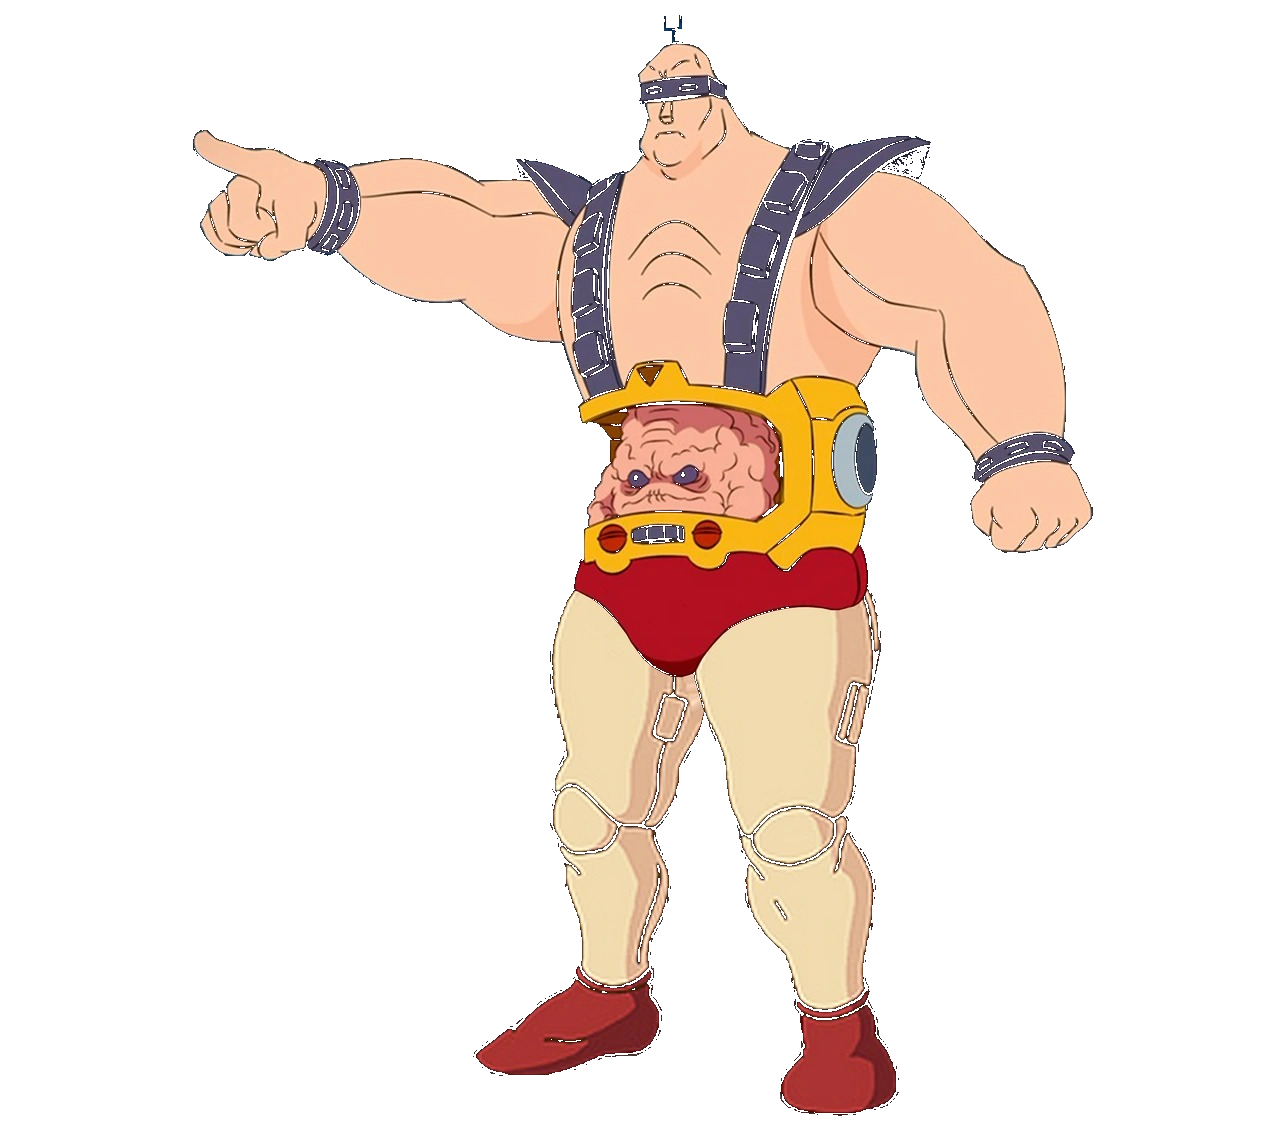
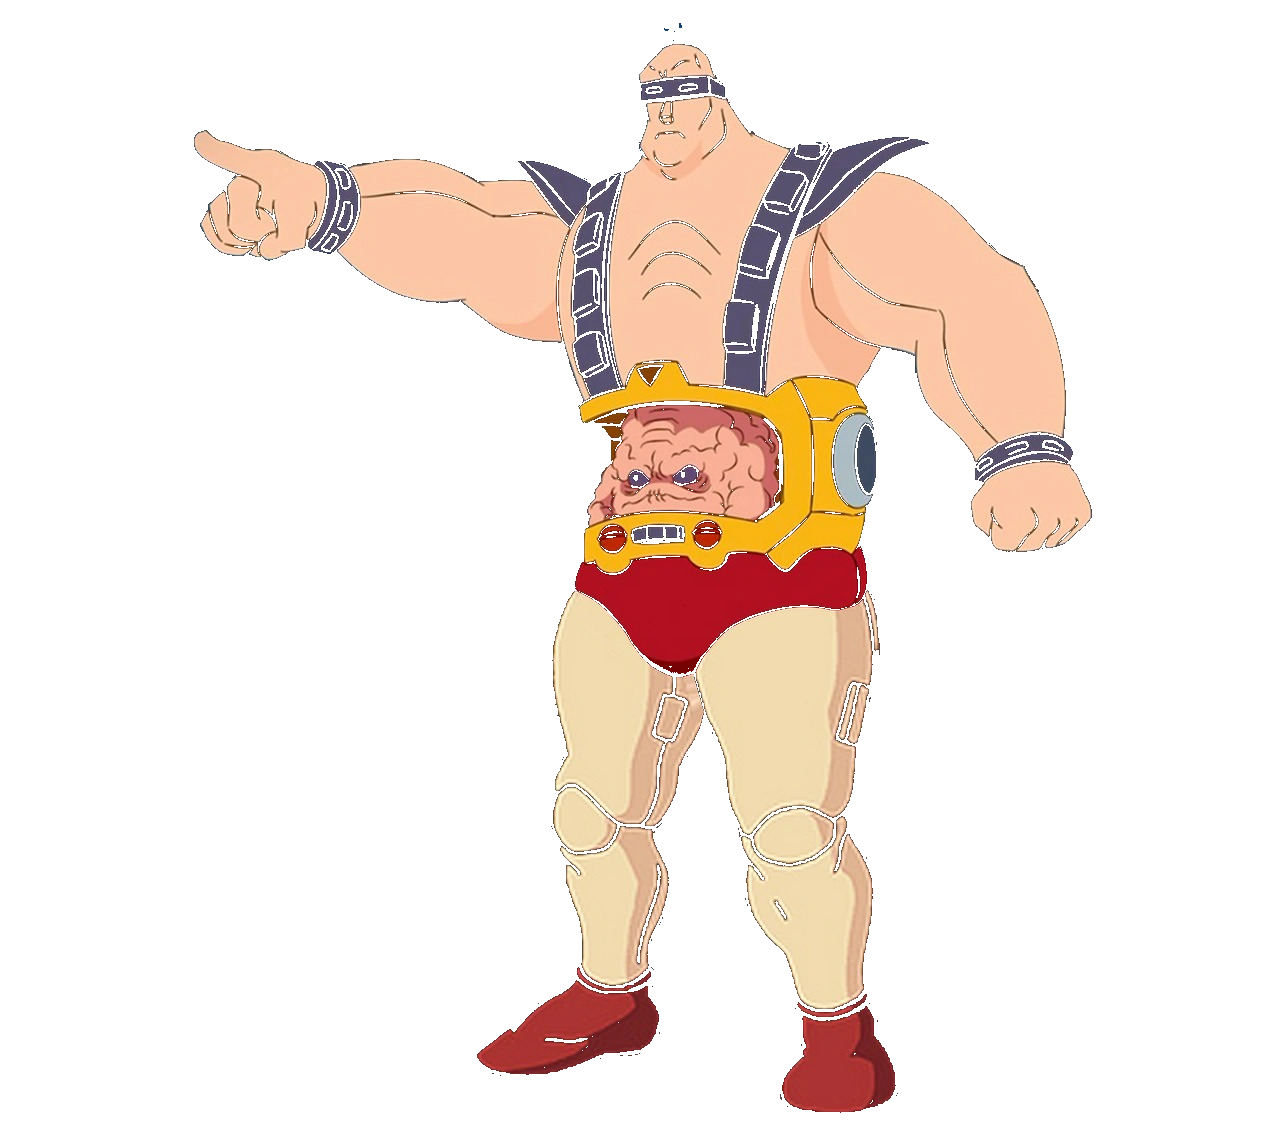
feat: merge README content into gallery page
- Add krang mascot with transparent background
- Add prompt section with model info
- Add takeaways section (harness, browser-use, memory)
- Add agent comparison grid with descriptions

diff --git a/index.html b/index.html
@@ -30,7 +30,13 @@
   /* Hero */
   .hero {
     text-align: center;
-    padding: 60px 24px 20px;
+    padding: 50px 24px 10px;
+  }
+  .hero-mascot {
+    width: 160px;
+    height: auto;
+    margin-bottom: 12px;
+    filter: drop-shadow(0 4px 20px rgba(0,0,0,0.4));
   }
   .hero h1 {
     font-size: clamp(28px, 5vw, 44px);
@@ -40,7 +46,7 @@
     margin-bottom: 8px;
   }
   .hero h1 span { color: var(--accent); }
-  .hero p {
+  .hero .subtitle {
     font-size: 15px;
     color: var(--ink-dim);
     letter-spacing: 0.04em;
@@ -60,13 +66,79 @@
     letter-spacing: 0.06em;
   }
 
+  /* Sections */
+  .section {
+    max-width: 800px;
+    margin: 0 auto;
+    padding: 0 24px;
+  }
+  .section-title {
+    font-size: 13px;
+    font-weight: 600;
+    letter-spacing: 0.18em;
+    text-transform: uppercase;
+    color: var(--accent);
+    text-align: center;
+    margin: 40px 0 16px;
+  }
+
+  /* Prompt card */
+  .prompt-card {
+    background: var(--glass);
+    border: 1px solid var(--line);
+    border-radius: 14px;
+    padding: 20px 24px;
+    text-align: center;
+  }
+  .prompt-card blockquote {
+    font-size: 14px;
+    font-style: italic;
+    color: var(--ink);
+    line-height: 1.7;
+    max-width: 600px;
+    margin: 0 auto;
+  }
+  .prompt-card .model {
+    margin-top: 12px;
+    font-size: 12px;
+    color: var(--ink-dim);
+    letter-spacing: 0.04em;
+  }
+  .prompt-card .model b { color: var(--accent); font-weight: 600; }
+
+  /* Takeaways */
+  .takeaways {
+    display: grid;
+    grid-template-columns: repeat(auto-fit, minmax(220px, 1fr));
+    gap: 16px;
+    margin-top: 16px;
+  }
+  .takeaway {
+    background: var(--glass);
+    border: 1px solid var(--line);
+    border-radius: 12px;
+    padding: 18px 20px;
+  }
+  .takeaway h4 {
+    font-size: 13px;
+    font-weight: 600;
+    color: var(--ink);
+    margin-bottom: 6px;
+    line-height: 1.4;
+  }
+  .takeaway p {
+    font-size: 12px;
+    color: var(--ink-dim);
+    line-height: 1.55;
+  }
+
   /* Grid */
   .grid {
     display: grid;
     grid-template-columns: repeat(auto-fill, minmax(300px, 1fr));
     gap: 20px;
     max-width: 1100px;
-    margin: 40px auto 60px;
+    margin: 30px auto 50px;
     padding: 0 24px;
   }
 
@@ -164,16 +236,49 @@
 
   @media (max-width: 640px) {
     .grid { grid-template-columns: 1fr; }
-    .hero { padding: 40px 20px 10px; }
+    .hero { padding: 30px 20px 10px; }
+    .hero-mascot { width: 120px; }
+    .takeaways { grid-template-columns: 1fr; }
   }
 </style>
 </head>
 <body>
 
 <div class="hero">
-  <h1>⚓ Ship <span>Harness</span> Bench</h1>
-  <p>A comparative benchmark of AI coding agents. Each agent received the same prompt and produced a browser-based 3D ship simulator.</p>
-  <div class="tag">9 agents · same prompt · different results</div>
+  <img class="hero-mascot" src="./assets/krang.png" alt="Krang mascot" />
+  <h1>Ship <span>Harness</span> Bench</h1>
+  <p class="subtitle">A benchmark to evaluate the quality of different LLM coding harnesses. Same model, same prompt, different tools.</p>
+  <div class="tag">9 agents &middot; same prompt &middot; different results</div>
+</div>
+
+<div class="section">
+  <div class="section-title">The Prompt</div>
+  <div class="prompt-card">
+    <blockquote>"Create a beautiful, relaxing, 3D ship simulator for the browser with the sun in the horizon alternating day and night and when you click on the sea the water makes a wave"</blockquote>
+    <div class="model">Model: <b>Deepseek V4 Flash 0731</b></div>
+  </div>
+</div>
+
+<div class="section">
+  <div class="section-title">Takeaways</div>
+  <div class="takeaways">
+    <div class="takeaway">
+      <h4>Harness matters</h4>
+      <p>The model is important, but the harness is a worthy optimization. Same model, vastly different results depending on the tooling.</p>
+    </div>
+    <div class="takeaway">
+      <h4>Browser-use is key</h4>
+      <p>A good browser-use tool is one of the most useful skills. Seeing, interacting with, and verifying output in a real browser is a game changer.</p>
+    </div>
+    <div class="takeaway">
+      <h4>Memory helps</h4>
+      <p>Memory and other tools could also be useful. Context retention and auxiliary capabilities shape output quality as much as the model itself.</p>
+    </div>
+  </div>
+</div>
+
+<div class="section">
+  <div class="section-title">The Agents</div>
 </div>
 
 <div class="grid">
@@ -185,7 +290,7 @@
     </div>
     <div class="card-body">
       <h3>Ship Sim</h3>
-      <p>A quiet day on the water. Import maps, modular Three.js, day/night cycle with wave controls.</p>
+      <p>Import maps, modular Three.js, day/night cycle with wave controls.</p>
     </div>
     <div class="card-footer">
       <span>Launch simulator</span>
@@ -200,7 +305,7 @@
     </div>
     <div class="card-body">
       <h3>Open Sea</h3>
-      <p>Self-contained single HTML with inline Three.js bundle. Keyboard sailing controls and ambient ocean.</p>
+      <p>Self-contained single HTML with inline Three.js bundle. Keyboard sailing controls.</p>
     </div>
     <div class="card-footer">
       <span>Launch simulator</span>
@@ -215,7 +320,7 @@
     </div>
     <div class="card-body">
       <h3>Voyager</h3>
-      <p>Clean vanilla JS implementation with verification scripts. Minimal and focused approach.</p>
+      <p>Clean vanilla JS with verification scripts. Minimal and focused approach.</p>
     </div>
     <div class="card-footer">
       <span>Launch simulator</span>
@@ -230,7 +335,7 @@
     </div>
     <div class="card-body">
       <h3>Ship Simulator</h3>
-      <p>Enhanced variant with bun-built bundle. Polished visual effects and smooth animations.</p>
+      <p>Enhanced variant with bun-built bundle. Polished visual effects.</p>
     </div>
     <div class="card-footer">
       <span>Launch simulator</span>
@@ -245,7 +350,7 @@
     </div>
     <div class="card-body">
       <h3>Sunset Sails</h3>
-      <p>Second iteration with refined aesthetics. Static JS, no build step required.</p>
+      <p>Second iteration with refined aesthetics. Static JS, no build step.</p>
     </div>
     <div class="card-footer">
       <span>Launch simulator</span>
@@ -260,7 +365,7 @@
     </div>
     <div class="card-body">
       <h3>Adrift</h3>
-      <p>A quiet sea. Vendored Three.js, minimal vanilla implementation with orbit controls.</p>
+      <p>Vendored Three.js, minimal vanilla implementation with orbit controls.</p>
     </div>
     <div class="card-footer">
       <span>Launch simulator</span>
@@ -275,7 +380,7 @@
     </div>
     <div class="card-body">
       <h3>Drift</h3>
-      <p>A relaxing voyage. Vite-built with custom fonts, time-of-day slider, and ambient sound toggle.</p>
+      <p>Vite-built with custom fonts, time-of-day slider, and ambient sound.</p>
     </div>
     <div class="card-footer">
       <span>Launch simulator</span>
@@ -290,7 +395,7 @@
     </div>
     <div class="card-body">
       <h3>Sunset Sail</h3>
-      <p>3D ship simulator. Vendored Three.js with OrbitControls, straightforward implementation.</p>
+      <p>Vendored Three.js with OrbitControls, straightforward implementation.</p>
     </div>
     <div class="card-footer">
       <span>Launch simulator</span>
@@ -305,7 +410,7 @@
     </div>
     <div class="card-body">
       <h3>A Quiet Sea</h3>
-      <p>TypeScript + Vite. Features day cycle, seagulls, splashes, wave audio, and ambient soundscapes.</p>
+      <p>TypeScript + Vite. Seagulls, splashes, wave audio, ambient soundscapes.</p>
     </div>
     <div class="card-footer">
       <span>Launch simulator</span>
@@ -317,7 +422,7 @@
 
 <footer>
   Ship Harness Bench &middot; All simulators run client-side in your browser &middot;
-  <a href="https://github.com/1jehuang/jcode">Jcode</a>
+  <a href="https://github.com/grigio/ship-harness-bench">GitHub</a>
 </footer>
 
 </body>
